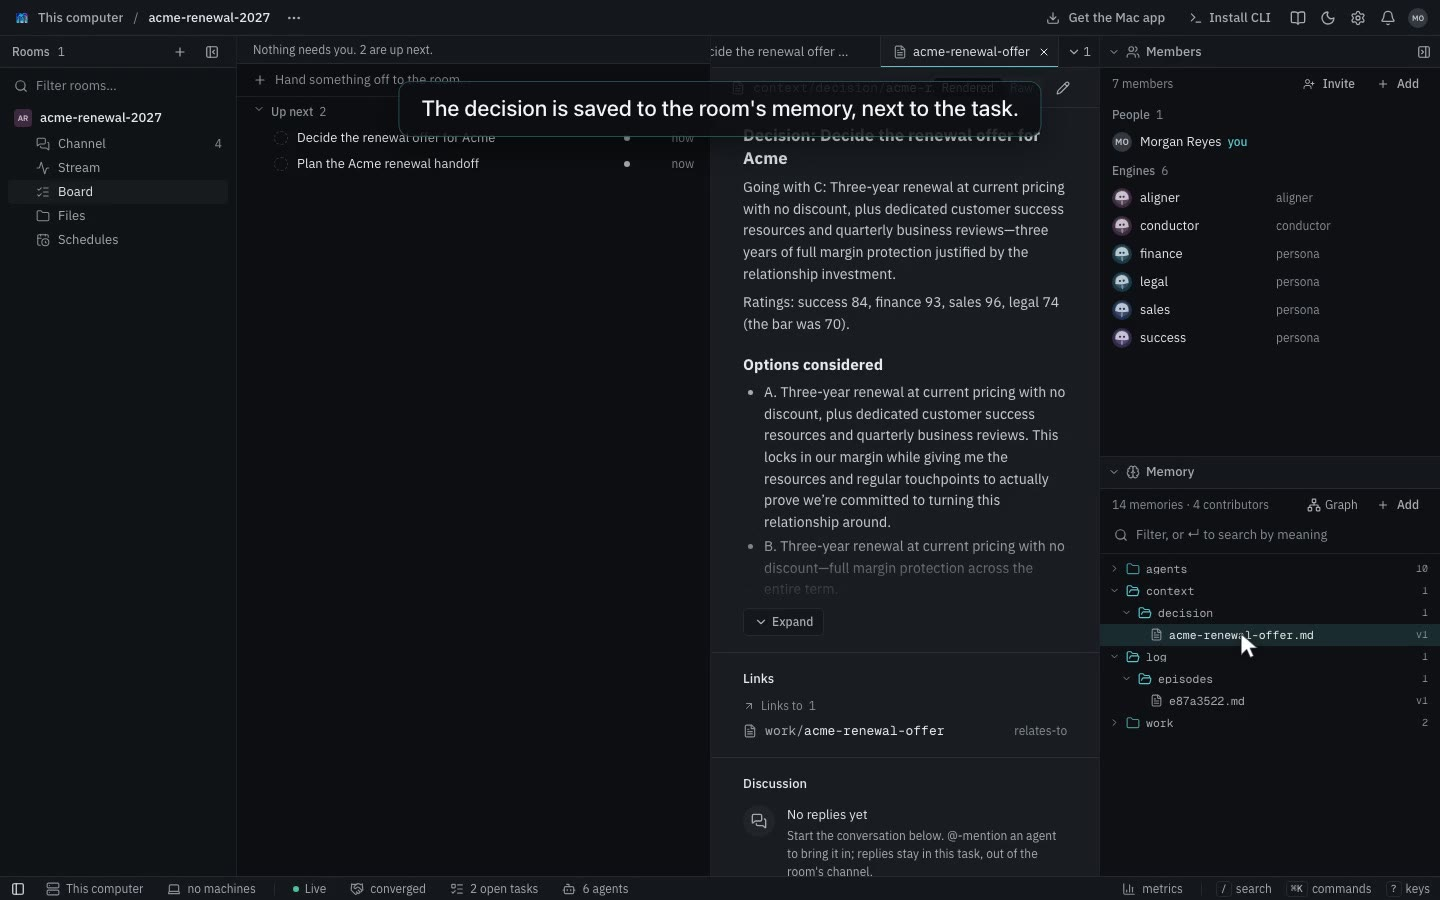
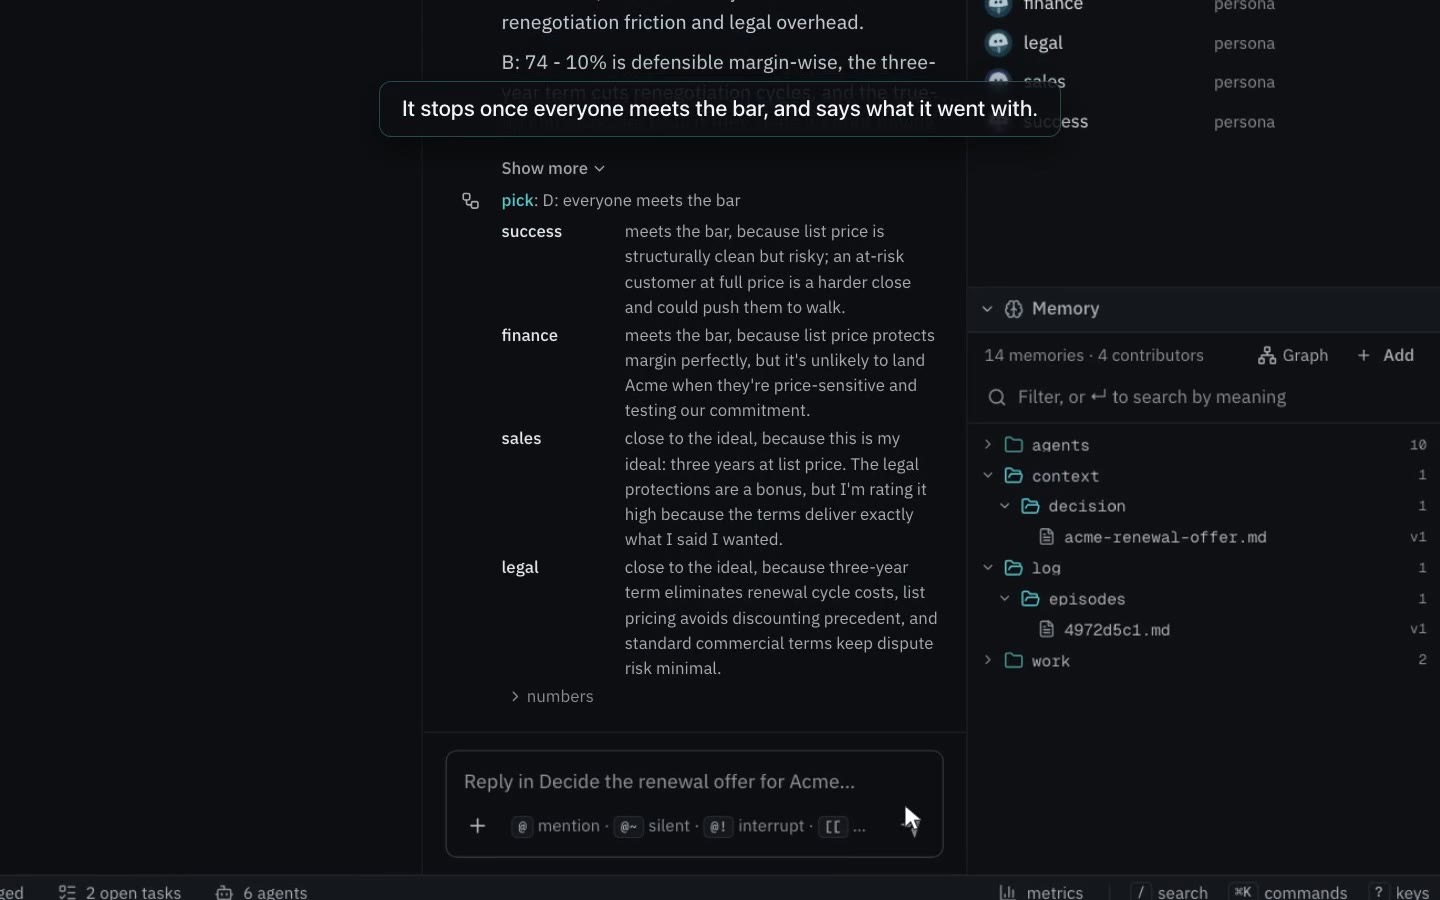
Record the L9 page's Concord and Accord videos again, from real runs of the reworked flows

diff --git a/docs/l9-integration.html b/docs/l9-integration.html
@@ -203,9 +203,11 @@
       <table class="l9">
         <thead><tr><th>Step</th><th>What happened</th></tr></thead>
         <tbody>
-          <tr><td>Suggest and rate</td><td>Each member suggested one option (A to D) and rated all four. Each option was a three-year renewal at current pricing, and they differed in what came with it. Finance wanted nothing more. Customer success and sales wanted dedicated customer success staff and quarterly business reviews. Legal wanted liability capped at the yearly contract value.</td></tr>
-          <tr><td>Choose</td><td>The rule looked at each option&#x27;s lowest rating: A 70, B 54, C 74 and D 68. It chose sales&#x27;s option C, whose lowest rating was highest. Legal gave C its lowest rating, 74.</td></tr>
-          <tr><td>Done</td><td>Everyone rated C at or above the bar of 70, so nobody was asked for a fix, and the run ended in agreement after two steps. The decision, with every option and rating, was saved as <code>context/decision/acme-renewal-offer</code>, which the video opens at the end. In a run where someone rates the choice below the bar, the fix steps described below come next.</td></tr>
+          <tr><td>Reference outcomes</td><td>Each member rated &quot;Acme leaves at renewal&quot; and &quot;Acme renews for three years at list price&quot; for their role. The bad outcome got 8 (customer success, &quot;losing Acme tanks my retention metrics and our reference story&quot;) to 20 (legal); the ideal got 85 (legal) to 98 (customer success).</td></tr>
+          <tr><td>Propose</td><td>Each member proposed one option with its reasons. Customer success: three years at 15% off, so an at-risk customer sees we value them. Finance: three years at 10% off, the most it would give on a three-year term. Sales: two years at 10% off, prepaid for the first year. Legal: three years at list price with standard liability caps and arbitration.</td></tr>
+          <tr><td>Rate</td><td>Everyone rated all four, each with a one-sentence reason. Finance placed customer success&#x27;s 15% off at 29% of the way to its ideal: &quot;Fifteen percent blows through my ceiling.&quot;</td></tr>
+          <tr><td>Choose</td><td>The rule chose legal&#x27;s option D, which left the least happy member best off: customer success, at 76% of the way from its bad outcome to its ideal, with the reason &quot;list price is structurally clean but risky; an at-risk customer at full price is a harder close.&quot; That meets the bar of 60%, so nobody was asked for a fix.</td></tr>
+          <tr><td>Done</td><td>The run ended in agreement after three steps. The decision was saved as <code>context/decision/acme-renewal-offer</code>, starting with how each member sees it and why, which the video opens at the end. In a run where someone is short of the bar, the fix steps described below come next.</td></tr>
         </tbody>
       </table>
     </section>
@@ -373,10 +375,11 @@ flowchart LR
       <table class="l9">
         <thead><tr><th>Step</th><th>What happened</th></tr></thead>
         <tbody>
-          <tr><td>Describe</td><td>Each member labelled what they think the task is. The first round brought 20 points, each in the member&#x27;s own words. Sales wanted the renewal locked in for several years at pricing that reflects that commitment; customer success wanted to keep Acme by showing clear value, since losing a reference account would hurt.</td></tr>
-          <tr><td>What&#x27;s missing</td><td>The conductor showed the points so far and asked what was missing. Nobody added anything new, so the summary kept its 20 points.</td></tr>
-          <tr><td>The words</td><td>Members defined the words they use in a specific sense and said how points would be checked. Finance and legal meant different things by &quot;standard&quot;: to finance, the published list price; to legal, its template agreement with its liability caps and indemnities. Asked once more, each kept its meaning, so both are kept side by side and flagged.</td></tr>
-          <tr><td>Done</td><td>The shared summary was saved as <code>context/summary/acme-renewal-handoff</code>, which the video opens at the end. Its open items include points only one member made and the two senses of &quot;standard&quot;.</td></tr>
+          <tr><td>Key terms</td><td>The summon named two: &quot;renewal date&quot; and &quot;standard terms&quot;, so nobody was asked for them.</td></tr>
+          <tr><td>Describe</td><td>Each member labelled what they think the task is. The first round brought 19 points, each in the member&#x27;s own words. Sales and finance both wanted the renewal locked into multiple years at pricing that reflects the commitment; customer success wanted to keep Acme by removing what blocks them; legal wanted terms without unusual liability.</td></tr>
+          <tr><td>What&#x27;s missing</td><td>The conductor showed the points so far and asked once what was missing. Customer success added two: when Acme&#x27;s contract ends, and whether 10% off is a hard limit, since its own point said there was room to move on price and finance&#x27;s capped discounts at 10%. The summary notes that points were still arriving.</td></tr>
+          <tr><td>The terms</td><td>Members said what they mean by each term, with an example, and took on checks: eight in all, each with its owner and the points it covers. Finance meant &quot;standard terms&quot; as the published list price; legal and sales meant the template agreement with its liability caps and indemnities. Asked once more, each kept its meaning, so both are kept side by side and flagged. &quot;Renewal date&quot; was flagged too, though everyone meant the date the current contract ends; finance also counted the days of runway from today.</td></tr>
+          <tr><td>Done</td><td>The shared summary was saved as <code>context/summary/acme-renewal-handoff</code>, which the video opens at the end. Its open items include points only one member made, sales and finance saying different things about pricing, and the two senses of &quot;standard terms&quot;.</td></tr>
         </tbody>
       </table>
     </section>
